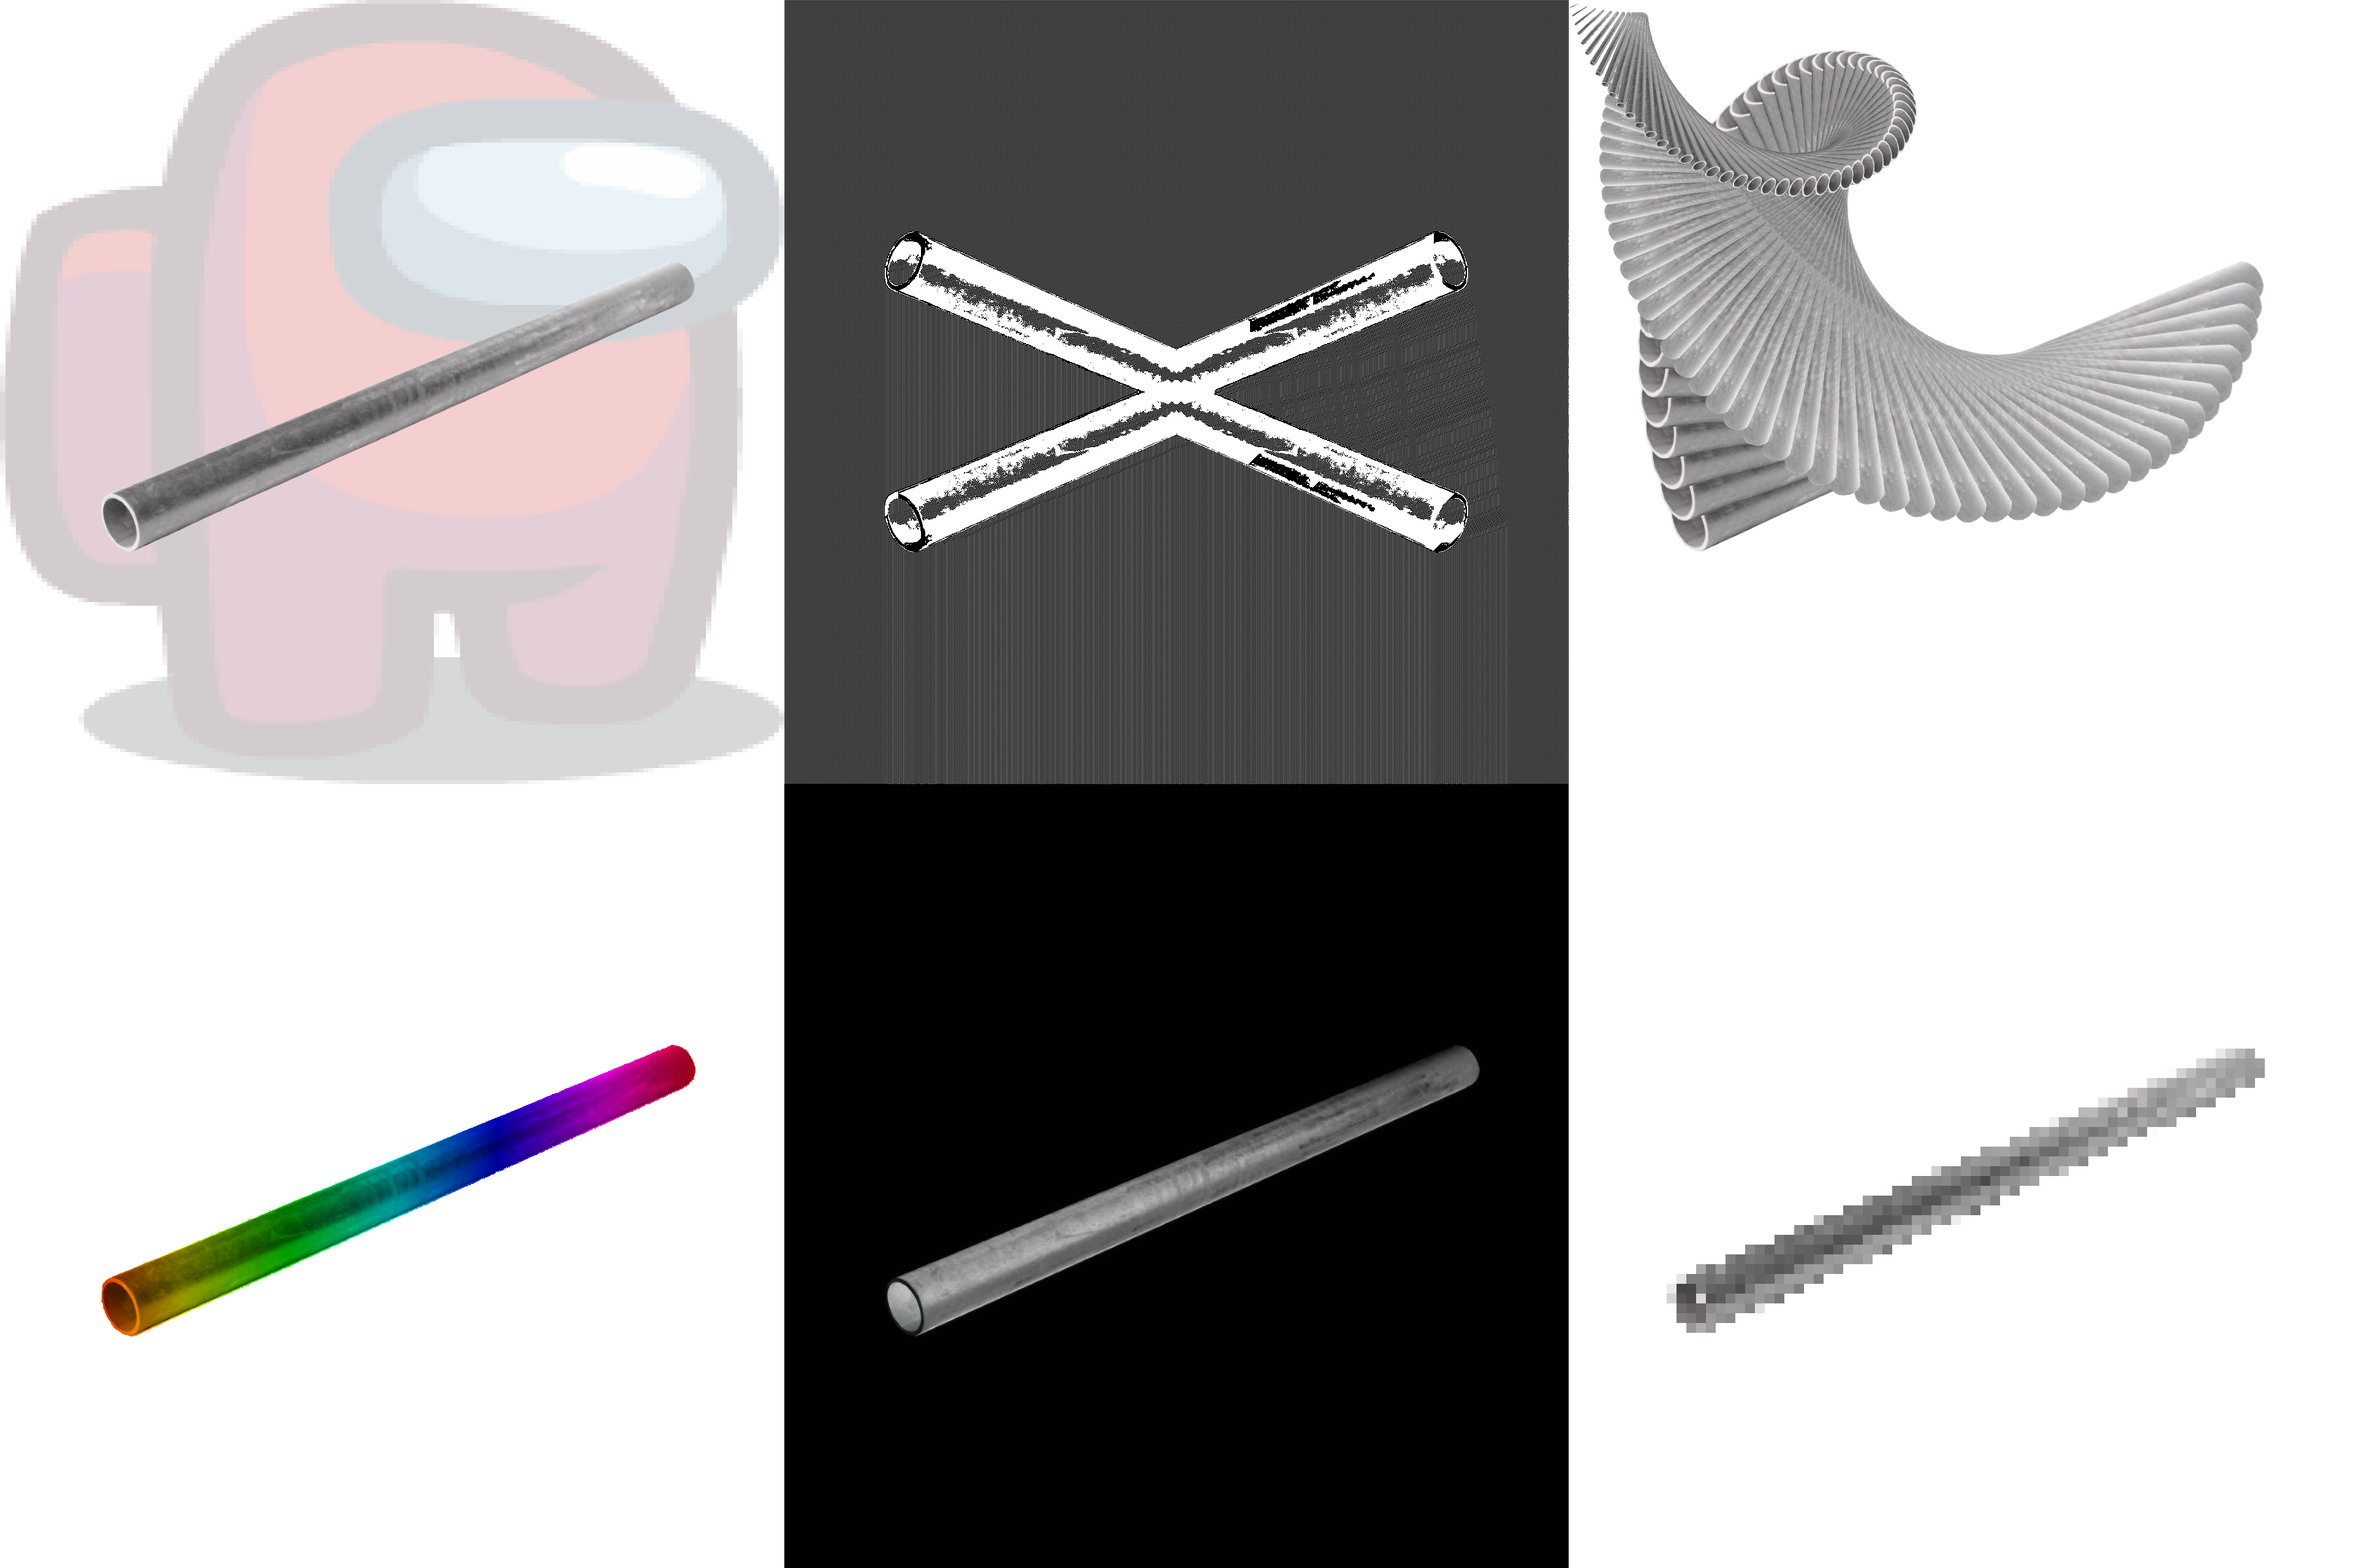
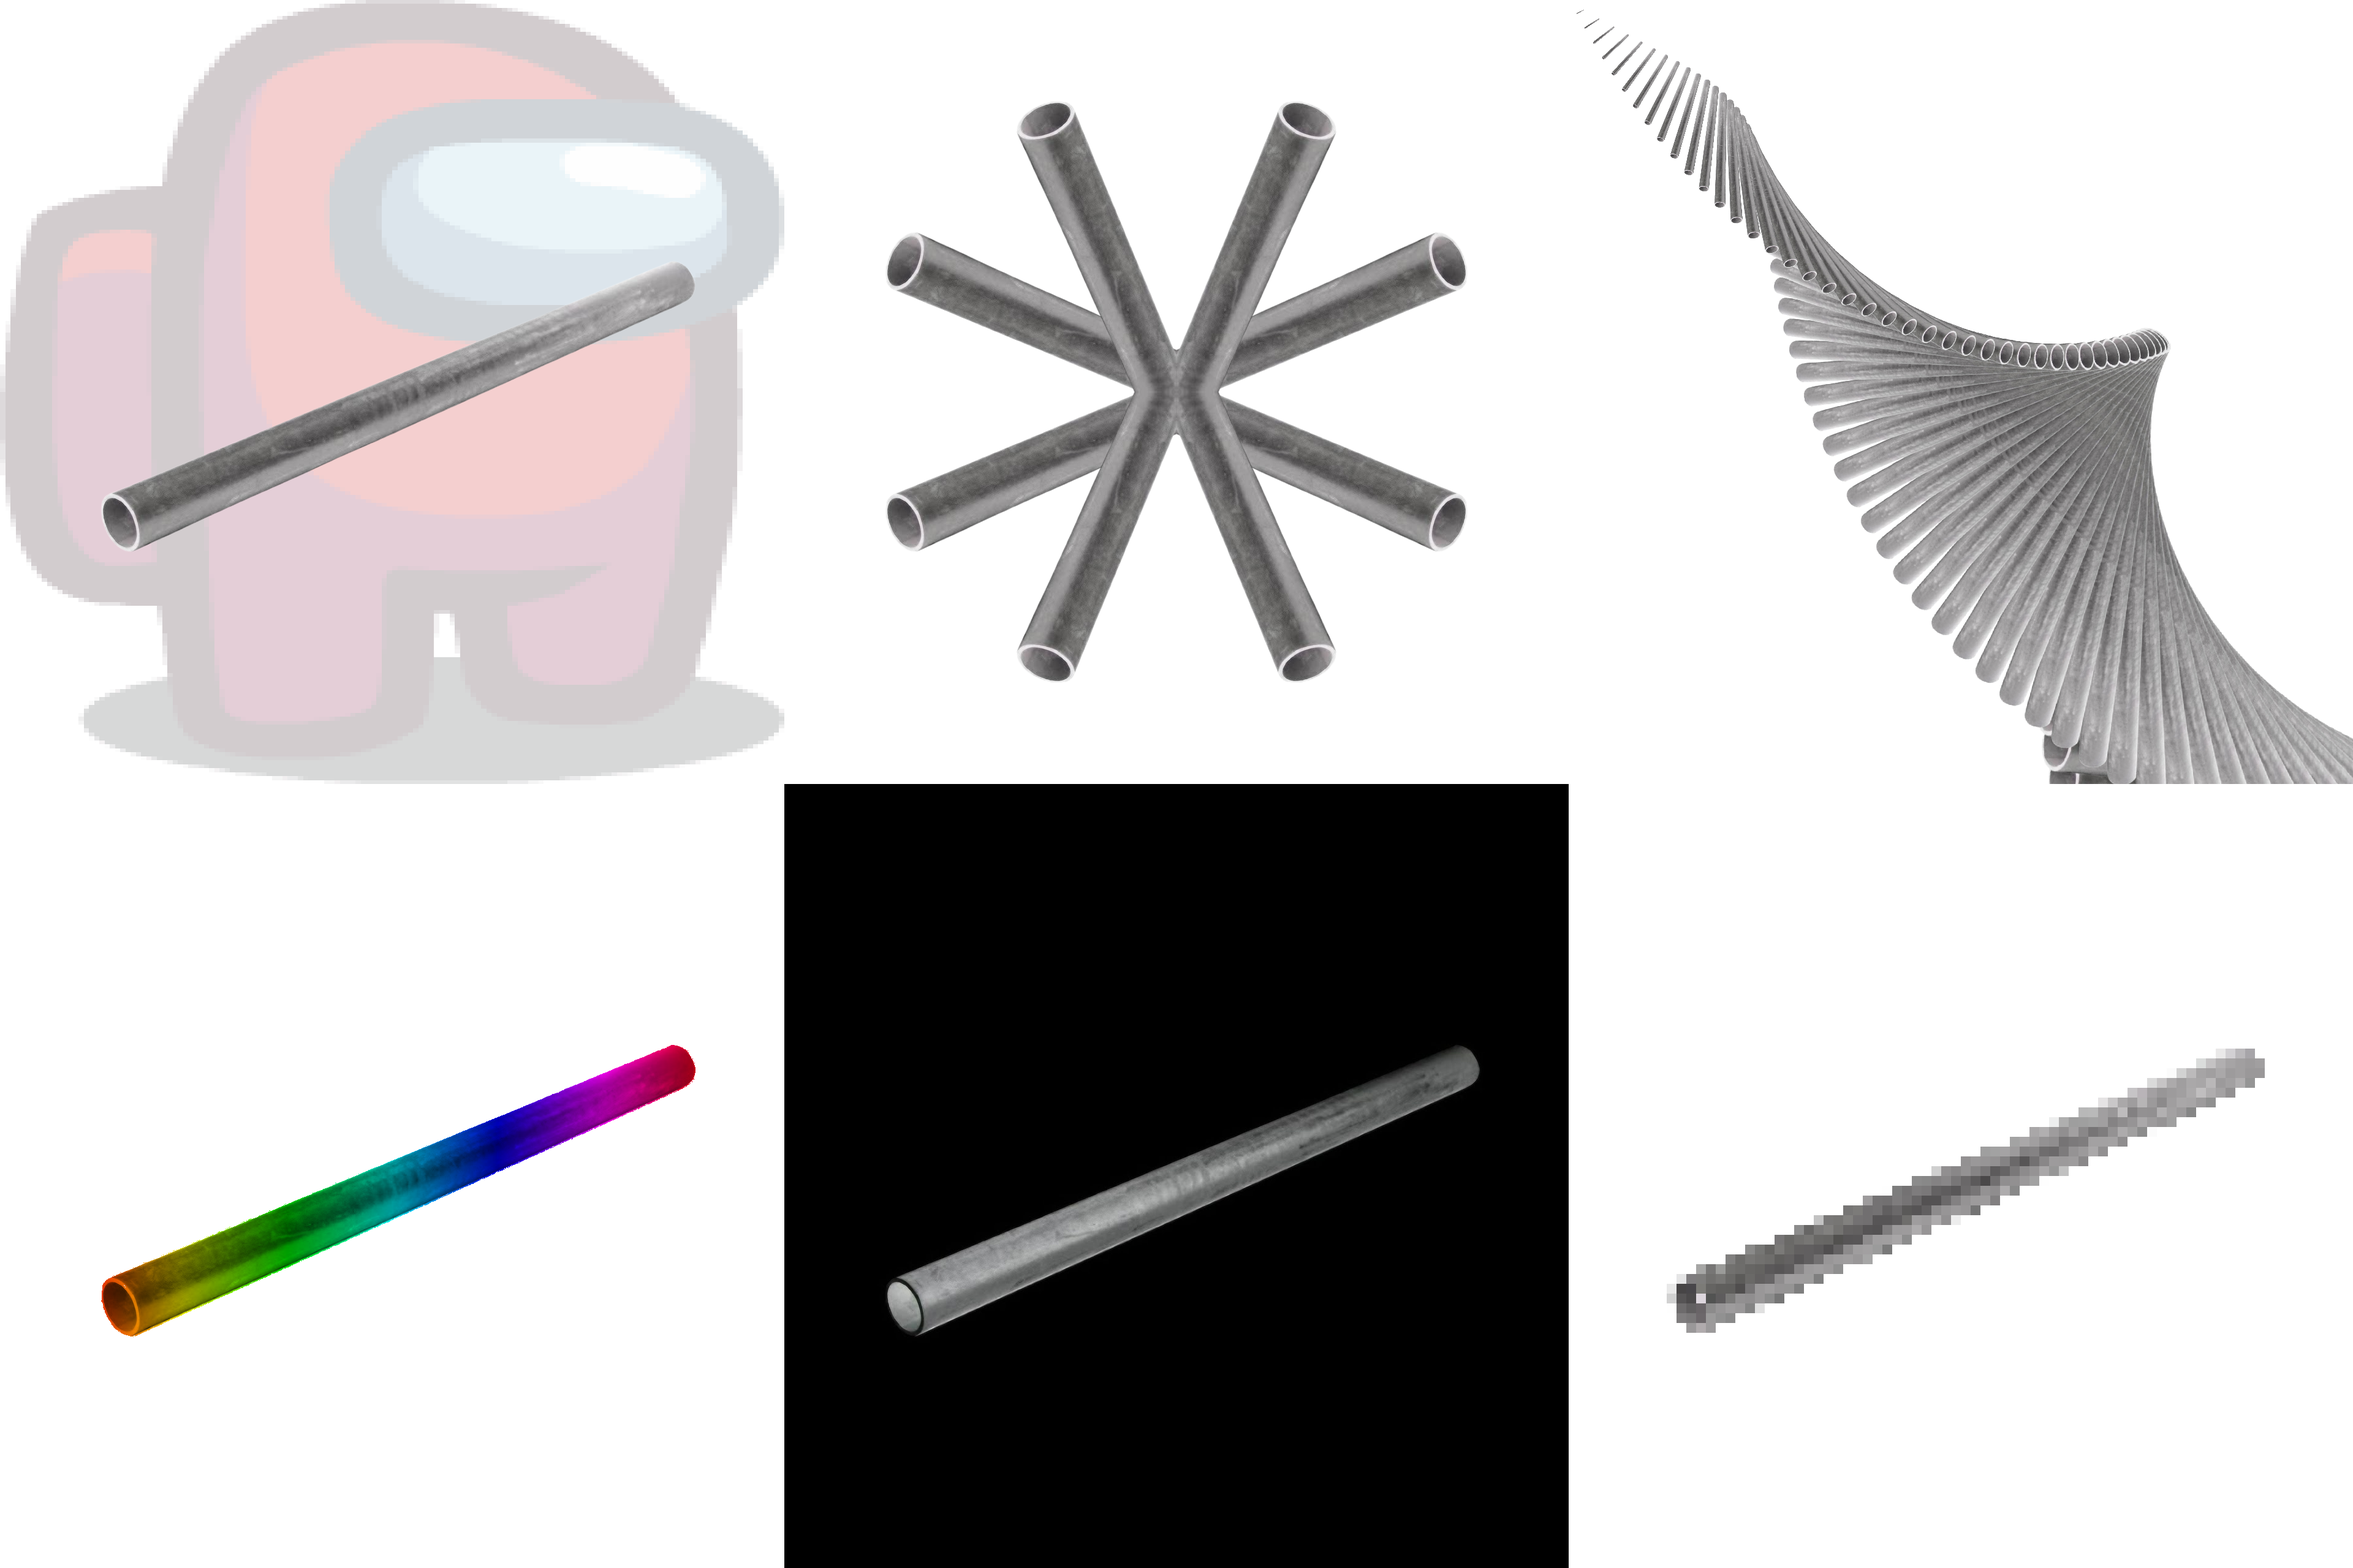
done

Changed region(s): [[0.3125, 0.0, 1.0, 0.5]]

diff --git a/poster_project/Poster.java b/poster_project/Poster.java
@@ -96,27 +96,7 @@ public class Poster extends Image{
         g.drawImage(scale(section,1,-1),0,0,null);
         g.drawImage(scale(section,-1,1),max/2,max/2,null);
         g.drawImage(scale(section,-1,-1),max/2,0,null);
-        int[] xVals = {1,0,-1,-1,-1,0,1,1}, yVals = {1,1,1,0,-1,-1,-1,0};
-        float tolerance = 0.6f;
-        boolean check;
-        for(int x = 0; x < max; x++){
-            for(int y = 0; y < max; y++){
-                if(getValue(getPixel(newImg,x,y)) > 0.95){continue;}
-                check = false;
-                for(int q = 0; q < 8; q++){
-                    try{
-                        if(getValue(difference(getPixel(newImg,x,y),getPixel(newImg,x+xVals[q],y+yVals[q])))>tolerance){
-                            check = true;
-                        }
-                    } catch(Exception e){continue;}
-                }
-                if(check){
-                    setPixel(g,x,y,Color.BLACK);
-                } else {
-                    setPixel(g,x,y,Color.WHITE);
-                }
-            }
-        }
+        g.drawImage(rotate(newImg,90,max,max),0,0,null);
         g.dispose();
         return newImg;
     }

diff --git a/poster_project/Image.java b/poster_project/Image.java
@@ -52,8 +52,8 @@ public abstract class Image{
         );
     }
     
-    public static Color multiply(Color c, float r){
-        return new Color(r*c.getRed(),r*c.getGreen(),r*c.getBlue());
+    public static Color multiply(Color c, double r){
+        return new Color((int)(r*c.getRed()),(int)(r*c.getGreen()),(int)(r*c.getBlue()));
     }
     
     public static Color average(Color c1, Color c2){
@@ -84,7 +84,8 @@ public abstract class Image{
     
     public static BufferedImage resize(BufferedImage img, int width, int height){
         BufferedImage newImage = new BufferedImage(width,height,img.getType());
-        newImage.createGraphics().drawImage(img,Math.abs(img.getWidth()-width)/2,Math.abs(img.getHeight()-height)/2,null);
+        Graphics2D g = newImage.createGraphics();
+        g.drawImage(img,Math.abs(img.getWidth()-width)/2,Math.abs(img.getHeight()-height)/2,null);
         return newImage;
     }
     
